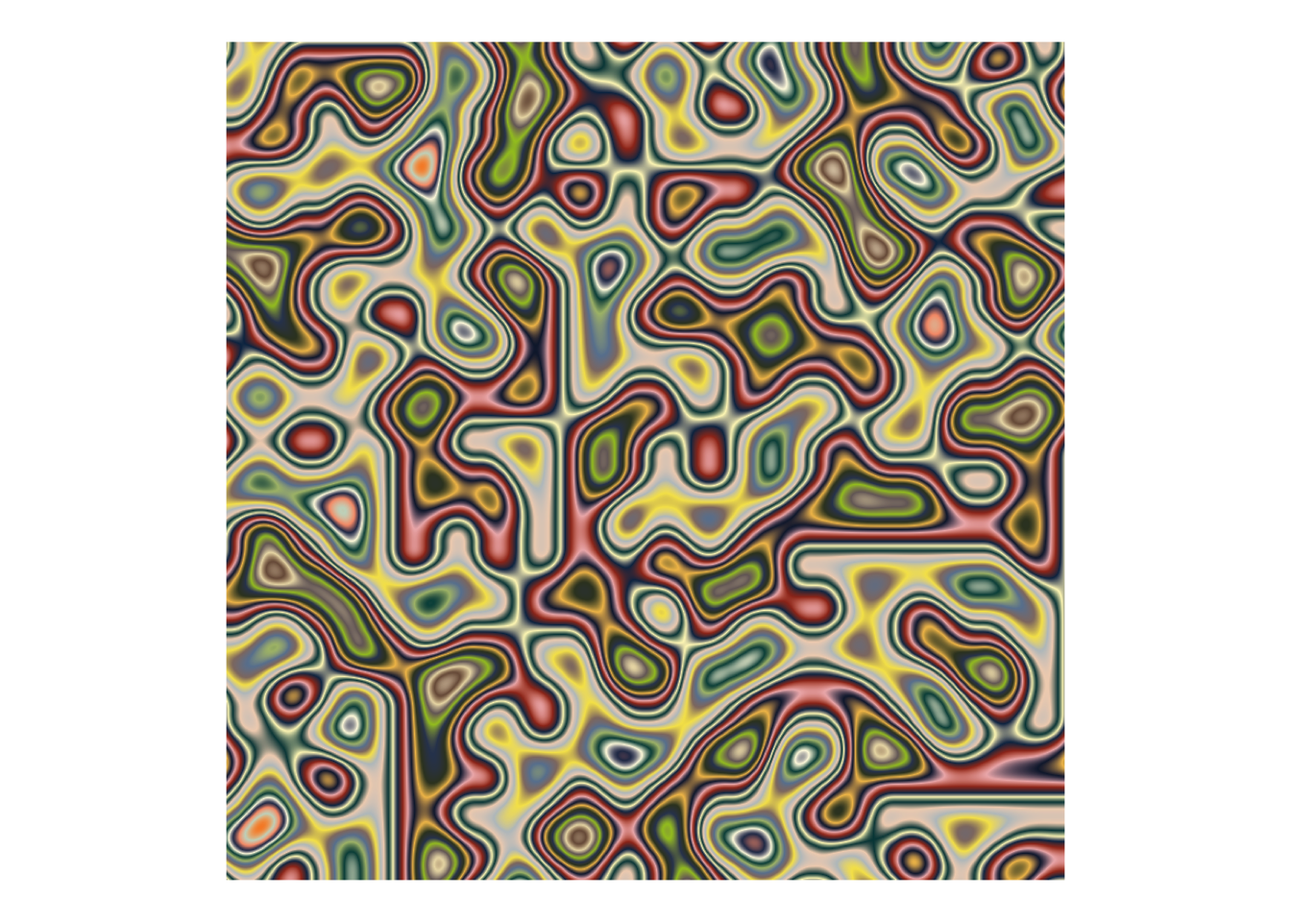
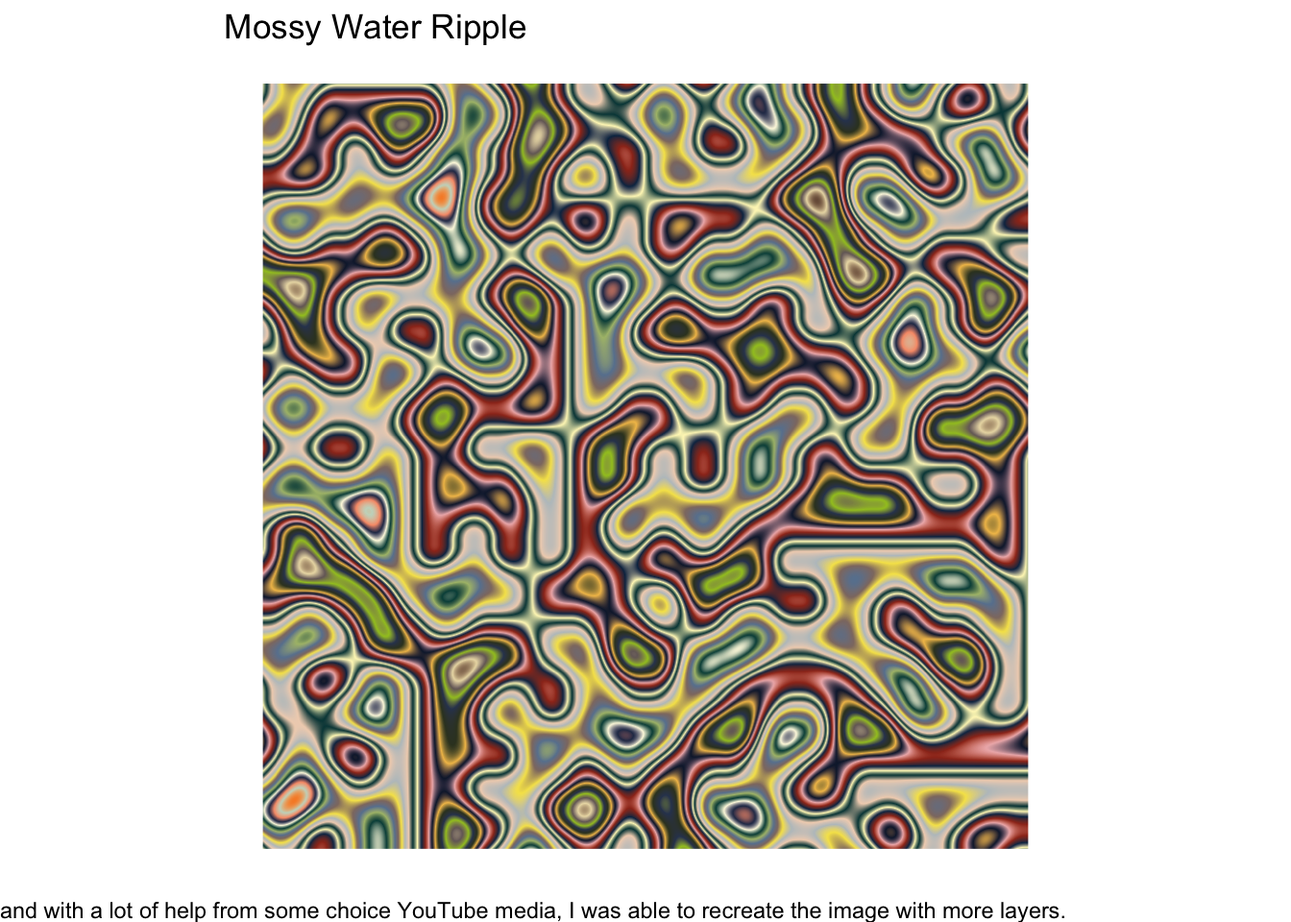
final push

diff --git a/art-from-code.html b/art-from-code.html
@@ -527,48 +527,52 @@ pre > code.sourceCode > span > a:first-child::before { text-decoration: underlin
 </div>
 </div>
 <div class="cell">
-<div class="sourceCode cell-code" id="cb26"><pre class="sourceCode r code-with-copy"><code class="sourceCode r"><span id="cb26-1"><a href="#cb26-1" aria-hidden="true" tabindex="-1"></a>leaf <span class="ot">&lt;-</span> tree <span class="sc">|&gt;</span> <span class="fu">filter</span>(id_leaf <span class="sc">==</span> <span class="cn">TRUE</span>)</span>
-<span id="cb26-2"><a href="#cb26-2" aria-hidden="true" tabindex="-1"></a>trunk <span class="ot">&lt;-</span> <span class="fu">geom_bezier</span>(</span>
-<span id="cb26-3"><a href="#cb26-3" aria-hidden="true" tabindex="-1"></a>  <span class="at">mapping =</span> <span class="fu">aes</span>(coord_x, coord_y, <span class="at">group =</span> id_pathtree, <span class="at">size =</span> seg_wid),</span>
-<span id="cb26-4"><a href="#cb26-4" aria-hidden="true" tabindex="-1"></a>  <span class="at">data =</span> tree, </span>
-<span id="cb26-5"><a href="#cb26-5" aria-hidden="true" tabindex="-1"></a>  <span class="at">lineend =</span> <span class="st">"round"</span>, </span>
-<span id="cb26-6"><a href="#cb26-6" aria-hidden="true" tabindex="-1"></a>  <span class="at">colour =</span> <span class="st">"#555555"</span>,</span>
-<span id="cb26-7"><a href="#cb26-7" aria-hidden="true" tabindex="-1"></a>  <span class="at">show.legend =</span> <span class="cn">FALSE</span></span>
-<span id="cb26-8"><a href="#cb26-8" aria-hidden="true" tabindex="-1"></a>)</span>
-<span id="cb26-9"><a href="#cb26-9" aria-hidden="true" tabindex="-1"></a></span>
-<span id="cb26-10"><a href="#cb26-10" aria-hidden="true" tabindex="-1"></a>leaves <span class="ot">&lt;-</span> <span class="fu">geom_point</span>(</span>
-<span id="cb26-11"><a href="#cb26-11" aria-hidden="true" tabindex="-1"></a>  <span class="at">mapping =</span> <span class="fu">aes</span>(coord_x, coord_y),</span>
-<span id="cb26-12"><a href="#cb26-12" aria-hidden="true" tabindex="-1"></a>  <span class="at">data =</span> leaf, </span>
-<span id="cb26-13"><a href="#cb26-13" aria-hidden="true" tabindex="-1"></a>  <span class="at">size =</span> <span class="fl">1.3</span>, </span>
-<span id="cb26-14"><a href="#cb26-14" aria-hidden="true" tabindex="-1"></a>  <span class="at">stroke =</span> <span class="dv">0</span>, </span>
-<span id="cb26-15"><a href="#cb26-15" aria-hidden="true" tabindex="-1"></a>  <span class="at">colour =</span> <span class="st">"#e38b75"</span></span>
-<span id="cb26-16"><a href="#cb26-16" aria-hidden="true" tabindex="-1"></a>)</span>
-<span id="cb26-17"><a href="#cb26-17" aria-hidden="true" tabindex="-1"></a></span>
-<span id="cb26-18"><a href="#cb26-18" aria-hidden="true" tabindex="-1"></a><span class="co"># function to create a polygon layer with specified x, y coordinates, fill color, and transparency</span></span>
-<span id="cb26-19"><a href="#cb26-19" aria-hidden="true" tabindex="-1"></a>polygon_layer <span class="ot">&lt;-</span> <span class="cf">function</span>(x, y, <span class="at">fill =</span> <span class="st">"white"</span>, <span class="at">alpha =</span> .<span class="dv">5</span>) {</span>
-<span id="cb26-20"><a href="#cb26-20" aria-hidden="true" tabindex="-1"></a>  <span class="fu">geom_polygon</span>(<span class="fu">aes</span>(x, y), <span class="at">fill =</span> fill, <span class="at">alpha =</span> alpha)</span>
-<span id="cb26-21"><a href="#cb26-21" aria-hidden="true" tabindex="-1"></a>}</span>
-<span id="cb26-22"><a href="#cb26-22" aria-hidden="true" tabindex="-1"></a></span>
-<span id="cb26-23"><a href="#cb26-23" aria-hidden="true" tabindex="-1"></a><span class="co"># create a black triangle</span></span>
-<span id="cb26-24"><a href="#cb26-24" aria-hidden="true" tabindex="-1"></a>triangle <span class="ot">&lt;-</span> <span class="fu">polygon_layer</span>(</span>
-<span id="cb26-25"><a href="#cb26-25" aria-hidden="true" tabindex="-1"></a>  <span class="at">x =</span> <span class="fu">c</span>(<span class="sc">-</span><span class="dv">4</span>, <span class="dv">2</span>, <span class="dv">2</span>), </span>
-<span id="cb26-26"><a href="#cb26-26" aria-hidden="true" tabindex="-1"></a>  <span class="at">y =</span> <span class="fu">c</span>(<span class="dv">0</span>, <span class="dv">0</span>, <span class="dv">6</span>), </span>
-<span id="cb26-27"><a href="#cb26-27" aria-hidden="true" tabindex="-1"></a>  <span class="at">fill =</span> <span class="st">"black"</span>,</span>
-<span id="cb26-28"><a href="#cb26-28" aria-hidden="true" tabindex="-1"></a>  <span class="at">alpha =</span> <span class="dv">1</span></span>
-<span id="cb26-29"><a href="#cb26-29" aria-hidden="true" tabindex="-1"></a>)</span>
-<span id="cb26-30"><a href="#cb26-30" aria-hidden="true" tabindex="-1"></a></span>
-<span id="cb26-31"><a href="#cb26-31" aria-hidden="true" tabindex="-1"></a><span class="co"># base ggplot object with void theme and equal coordinates scaling</span></span>
-<span id="cb26-32"><a href="#cb26-32" aria-hidden="true" tabindex="-1"></a>base <span class="ot">&lt;-</span> <span class="fu">ggplot</span>() <span class="sc">+</span> </span>
-<span id="cb26-33"><a href="#cb26-33" aria-hidden="true" tabindex="-1"></a>  <span class="fu">theme_void</span>() <span class="sc">+</span>  <span class="co"># no background, axes, or grid lines</span></span>
-<span id="cb26-34"><a href="#cb26-34" aria-hidden="true" tabindex="-1"></a>  <span class="fu">coord_equal</span>(<span class="at">xlim =</span> <span class="fu">c</span>(<span class="sc">-</span><span class="dv">3</span>, <span class="dv">1</span>), <span class="at">ylim =</span> <span class="fu">c</span>(<span class="dv">1</span>, <span class="dv">5</span>)) <span class="sc">+</span>  <span class="co"># set limits for x and y axes</span></span>
-<span id="cb26-35"><a href="#cb26-35" aria-hidden="true" tabindex="-1"></a>  <span class="fu">scale_x_continuous</span>(<span class="at">expand =</span> <span class="fu">c</span>(<span class="dv">0</span>, <span class="dv">0</span>)) <span class="sc">+</span>  <span class="co"># remove padding around x axis</span></span>
-<span id="cb26-36"><a href="#cb26-36" aria-hidden="true" tabindex="-1"></a>  <span class="fu">scale_y_continuous</span>(<span class="at">expand =</span> <span class="fu">c</span>(<span class="dv">0</span>, <span class="dv">0</span>)) <span class="sc">+</span>  <span class="co"># remove padding around y axis</span></span>
-<span id="cb26-37"><a href="#cb26-37" aria-hidden="true" tabindex="-1"></a>  <span class="fu">scale_size_identity</span>(<span class="at">guide =</span> <span class="fu">guide_none</span>())  <span class="co"># use size as-is, no guide</span></span>
-<span id="cb26-38"><a href="#cb26-38" aria-hidden="true" tabindex="-1"></a></span>
-<span id="cb26-39"><a href="#cb26-39" aria-hidden="true" tabindex="-1"></a><span class="co"># plot the base with the tree and blend it with the triangle using xor blend type</span></span>
-<span id="cb26-40"><a href="#cb26-40" aria-hidden="true" tabindex="-1"></a>base <span class="sc">+</span></span>
-<span id="cb26-41"><a href="#cb26-41" aria-hidden="true" tabindex="-1"></a>  <span class="fu">as_group</span>(trunk, leaves, <span class="at">id =</span> <span class="st">"tree"</span>) <span class="sc">+</span>  <span class="co"># group trunk and leaves as tree</span></span>
-<span id="cb26-42"><a href="#cb26-42" aria-hidden="true" tabindex="-1"></a>  <span class="fu">with_blend</span>(triangle, <span class="st">"tree"</span>, <span class="at">blend_type =</span> <span class="st">"xor"</span>)  <span class="co"># blend triangle with tree using xor</span></span></code><button title="Copy to Clipboard" class="code-copy-button"><i class="bi"></i></button></pre></div>
+<div class="sourceCode cell-code" id="cb26"><pre class="sourceCode r code-with-copy"><code class="sourceCode r"><span id="cb26-1"><a href="#cb26-1" aria-hidden="true" tabindex="-1"></a><span class="co"># filter the tree data to get only the leaves</span></span>
+<span id="cb26-2"><a href="#cb26-2" aria-hidden="true" tabindex="-1"></a>leaf <span class="ot">&lt;-</span> tree <span class="sc">|&gt;</span> <span class="fu">filter</span>(id_leaf <span class="sc">==</span> <span class="cn">TRUE</span>)</span>
+<span id="cb26-3"><a href="#cb26-3" aria-hidden="true" tabindex="-1"></a></span>
+<span id="cb26-4"><a href="#cb26-4" aria-hidden="true" tabindex="-1"></a><span class="co"># create the trunk using geom_bezier</span></span>
+<span id="cb26-5"><a href="#cb26-5" aria-hidden="true" tabindex="-1"></a>trunk <span class="ot">&lt;-</span> <span class="fu">geom_bezier</span>(</span>
+<span id="cb26-6"><a href="#cb26-6" aria-hidden="true" tabindex="-1"></a>  <span class="at">mapping =</span> <span class="fu">aes</span>(coord_x, coord_y, <span class="at">group =</span> id_pathtree, <span class="at">size =</span> seg_wid),  <span class="co"># map coordinates and sizes</span></span>
+<span id="cb26-7"><a href="#cb26-7" aria-hidden="true" tabindex="-1"></a>  <span class="at">data =</span> tree,  <span class="co"># use tree data</span></span>
+<span id="cb26-8"><a href="#cb26-8" aria-hidden="true" tabindex="-1"></a>  <span class="at">lineend =</span> <span class="st">"round"</span>,  <span class="co"># round line ends</span></span>
+<span id="cb26-9"><a href="#cb26-9" aria-hidden="true" tabindex="-1"></a>  <span class="at">colour =</span> <span class="st">"#555555"</span>,  <span class="co"># set color to gray</span></span>
+<span id="cb26-10"><a href="#cb26-10" aria-hidden="true" tabindex="-1"></a>  <span class="at">show.legend =</span> <span class="cn">FALSE</span>  <span class="co"># hide the legend</span></span>
+<span id="cb26-11"><a href="#cb26-11" aria-hidden="true" tabindex="-1"></a>)</span>
+<span id="cb26-12"><a href="#cb26-12" aria-hidden="true" tabindex="-1"></a></span>
+<span id="cb26-13"><a href="#cb26-13" aria-hidden="true" tabindex="-1"></a><span class="co"># create the leaves using geom_point</span></span>
+<span id="cb26-14"><a href="#cb26-14" aria-hidden="true" tabindex="-1"></a>leaves <span class="ot">&lt;-</span> <span class="fu">geom_point</span>(</span>
+<span id="cb26-15"><a href="#cb26-15" aria-hidden="true" tabindex="-1"></a>  <span class="at">mapping =</span> <span class="fu">aes</span>(coord_x, coord_y),  <span class="co"># map coordinates</span></span>
+<span id="cb26-16"><a href="#cb26-16" aria-hidden="true" tabindex="-1"></a>  <span class="at">data =</span> leaf,  <span class="co"># use leaf data</span></span>
+<span id="cb26-17"><a href="#cb26-17" aria-hidden="true" tabindex="-1"></a>  <span class="at">size =</span> <span class="fl">1.3</span>,  <span class="co"># set point size</span></span>
+<span id="cb26-18"><a href="#cb26-18" aria-hidden="true" tabindex="-1"></a>  <span class="at">stroke =</span> <span class="dv">0</span>,  <span class="co"># remove stroke around points</span></span>
+<span id="cb26-19"><a href="#cb26-19" aria-hidden="true" tabindex="-1"></a>  <span class="at">colour =</span> <span class="st">"#e38b75"</span>  <span class="co"># set color to a pinkish hue</span></span>
+<span id="cb26-20"><a href="#cb26-20" aria-hidden="true" tabindex="-1"></a>)</span>
+<span id="cb26-21"><a href="#cb26-21" aria-hidden="true" tabindex="-1"></a></span>
+<span id="cb26-22"><a href="#cb26-22" aria-hidden="true" tabindex="-1"></a><span class="co"># function to create a polygon layer with specified x, y coordinates, fill color, and transparency</span></span>
+<span id="cb26-23"><a href="#cb26-23" aria-hidden="true" tabindex="-1"></a>polygon_layer <span class="ot">&lt;-</span> <span class="cf">function</span>(x, y, <span class="at">fill =</span> <span class="st">"white"</span>, <span class="at">alpha =</span> .<span class="dv">5</span>) {</span>
+<span id="cb26-24"><a href="#cb26-24" aria-hidden="true" tabindex="-1"></a>  <span class="fu">geom_polygon</span>(<span class="fu">aes</span>(x, y), <span class="at">fill =</span> fill, <span class="at">alpha =</span> alpha)</span>
+<span id="cb26-25"><a href="#cb26-25" aria-hidden="true" tabindex="-1"></a>}</span>
+<span id="cb26-26"><a href="#cb26-26" aria-hidden="true" tabindex="-1"></a></span>
+<span id="cb26-27"><a href="#cb26-27" aria-hidden="true" tabindex="-1"></a><span class="co"># create a black triangle</span></span>
+<span id="cb26-28"><a href="#cb26-28" aria-hidden="true" tabindex="-1"></a>triangle <span class="ot">&lt;-</span> <span class="fu">polygon_layer</span>(</span>
+<span id="cb26-29"><a href="#cb26-29" aria-hidden="true" tabindex="-1"></a>  <span class="at">x =</span> <span class="fu">c</span>(<span class="sc">-</span><span class="dv">4</span>, <span class="dv">2</span>, <span class="dv">2</span>), </span>
+<span id="cb26-30"><a href="#cb26-30" aria-hidden="true" tabindex="-1"></a>  <span class="at">y =</span> <span class="fu">c</span>(<span class="dv">0</span>, <span class="dv">0</span>, <span class="dv">6</span>), </span>
+<span id="cb26-31"><a href="#cb26-31" aria-hidden="true" tabindex="-1"></a>  <span class="at">fill =</span> <span class="st">"black"</span>,</span>
+<span id="cb26-32"><a href="#cb26-32" aria-hidden="true" tabindex="-1"></a>  <span class="at">alpha =</span> <span class="dv">1</span></span>
+<span id="cb26-33"><a href="#cb26-33" aria-hidden="true" tabindex="-1"></a>)</span>
+<span id="cb26-34"><a href="#cb26-34" aria-hidden="true" tabindex="-1"></a></span>
+<span id="cb26-35"><a href="#cb26-35" aria-hidden="true" tabindex="-1"></a><span class="co"># base ggplot object with void theme and equal coordinates scaling</span></span>
+<span id="cb26-36"><a href="#cb26-36" aria-hidden="true" tabindex="-1"></a>base <span class="ot">&lt;-</span> <span class="fu">ggplot</span>() <span class="sc">+</span> </span>
+<span id="cb26-37"><a href="#cb26-37" aria-hidden="true" tabindex="-1"></a>  <span class="fu">theme_void</span>() <span class="sc">+</span>  <span class="co"># no background, axes, or grid lines</span></span>
+<span id="cb26-38"><a href="#cb26-38" aria-hidden="true" tabindex="-1"></a>  <span class="fu">coord_equal</span>(<span class="at">xlim =</span> <span class="fu">c</span>(<span class="sc">-</span><span class="dv">3</span>, <span class="dv">1</span>), <span class="at">ylim =</span> <span class="fu">c</span>(<span class="dv">1</span>, <span class="dv">5</span>)) <span class="sc">+</span>  <span class="co"># set limits for x and y axes</span></span>
+<span id="cb26-39"><a href="#cb26-39" aria-hidden="true" tabindex="-1"></a>  <span class="fu">scale_x_continuous</span>(<span class="at">expand =</span> <span class="fu">c</span>(<span class="dv">0</span>, <span class="dv">0</span>)) <span class="sc">+</span>  <span class="co"># remove padding around x axis</span></span>
+<span id="cb26-40"><a href="#cb26-40" aria-hidden="true" tabindex="-1"></a>  <span class="fu">scale_y_continuous</span>(<span class="at">expand =</span> <span class="fu">c</span>(<span class="dv">0</span>, <span class="dv">0</span>)) <span class="sc">+</span>  <span class="co"># remove padding around y axis</span></span>
+<span id="cb26-41"><a href="#cb26-41" aria-hidden="true" tabindex="-1"></a>  <span class="fu">scale_size_identity</span>(<span class="at">guide =</span> <span class="fu">guide_none</span>())  <span class="co"># use size as-is, no guide</span></span>
+<span id="cb26-42"><a href="#cb26-42" aria-hidden="true" tabindex="-1"></a></span>
+<span id="cb26-43"><a href="#cb26-43" aria-hidden="true" tabindex="-1"></a><span class="co"># plot the base with the tree and blend it with the triangle using xor blend type</span></span>
+<span id="cb26-44"><a href="#cb26-44" aria-hidden="true" tabindex="-1"></a>base <span class="sc">+</span></span>
+<span id="cb26-45"><a href="#cb26-45" aria-hidden="true" tabindex="-1"></a>  <span class="fu">as_group</span>(trunk, leaves, <span class="at">id =</span> <span class="st">"tree"</span>) <span class="sc">+</span>  <span class="co"># group trunk and leaves as tree</span></span>
+<span id="cb26-46"><a href="#cb26-46" aria-hidden="true" tabindex="-1"></a>  <span class="fu">with_blend</span>(triangle, <span class="st">"tree"</span>, <span class="at">blend_type =</span> <span class="st">"xor"</span>)  <span class="co"># blend triangle with tree using xor</span></span></code><button title="Copy to Clipboard" class="code-copy-button"><i class="bi"></i></button></pre></div>
 <div class="cell-output-display">
 <p><img src="art-from-code_files/figure-html/unnamed-chunk-21-1.png" class="img-fluid" width="672"></p>
 </div>
@@ -580,8 +584,9 @@ pre > code.sourceCode > span > a:first-child::before { text-decoration: underlin
 <h2 class="anchored" data-anchor-id="put-it-all-together">Put It All Together</h2>
 <section id="piece-i" class="level4">
 <h4 class="anchored" data-anchor-id="piece-i">Piece I</h4>
+<p>I was inspired to make this when messing around with some of the spatial noise code. I found that using the “sample_600_colors()” function we generated in an earlier part worked very well with the noise. Instead of usung only a few colors to distinguish between the regions, I thought I’d try to spice it up by adding more colors. I didnt expect for it to clear up and not look as “fuzzy”, but it ended up making a very interesting and water-like illustration. Then I cleaned up the code a little bit and with a lot of help from some choice YouTube media, I was able to recreate the image with more layers.</p>
 <div class="cell">
-<div class="sourceCode cell-code" id="cb27"><pre class="sourceCode r code-with-copy"><code class="sourceCode r"><span id="cb27-1"><a href="#cb27-1" aria-hidden="true" tabindex="-1"></a><span class="co"># Function to generate a pretty pattern using spatial noise</span></span>
+<div class="sourceCode cell-code" id="cb27"><pre class="sourceCode r code-with-copy"><code class="sourceCode r"><span id="cb27-1"><a href="#cb27-1" aria-hidden="true" tabindex="-1"></a><span class="co"># Function to generate a cool pattern using spatial noise</span></span>
 <span id="cb27-2"><a href="#cb27-2" aria-hidden="true" tabindex="-1"></a>generate_pretty_pattern <span class="ot">&lt;-</span> <span class="cf">function</span>(seed, size, frequency, palette) {</span>
 <span id="cb27-3"><a href="#cb27-3" aria-hidden="true" tabindex="-1"></a>  <span class="co"># Set seed for reproducibility</span></span>
 <span id="cb27-4"><a href="#cb27-4" aria-hidden="true" tabindex="-1"></a>  <span class="fu">set.seed</span>(seed)</span>
@@ -598,16 +603,96 @@ pre > code.sourceCode > span > a:first-child::before { text-decoration: underlin
 <span id="cb27-15"><a href="#cb27-15" aria-hidden="true" tabindex="-1"></a>    <span class="fu">scale_fill_gradientn</span>(<span class="at">colours =</span> palette) <span class="sc">+</span></span>
 <span id="cb27-16"><a href="#cb27-16" aria-hidden="true" tabindex="-1"></a>    <span class="fu">theme_void</span>() <span class="sc">+</span></span>
 <span id="cb27-17"><a href="#cb27-17" aria-hidden="true" tabindex="-1"></a>    <span class="fu">coord_equal</span>() <span class="sc">+</span></span>
-<span id="cb27-18"><a href="#cb27-18" aria-hidden="true" tabindex="-1"></a>    <span class="fu">theme</span>(<span class="at">legend.position =</span> <span class="st">"none"</span>)  <span class="co"># Remove the legend</span></span>
-<span id="cb27-19"><a href="#cb27-19" aria-hidden="true" tabindex="-1"></a>  </span>
-<span id="cb27-20"><a href="#cb27-20" aria-hidden="true" tabindex="-1"></a>  <span class="co"># Display the plot</span></span>
-<span id="cb27-21"><a href="#cb27-21" aria-hidden="true" tabindex="-1"></a>  <span class="fu">print</span>(plot)</span>
-<span id="cb27-22"><a href="#cb27-22" aria-hidden="true" tabindex="-1"></a>}</span>
-<span id="cb27-23"><a href="#cb27-23" aria-hidden="true" tabindex="-1"></a></span>
-<span id="cb27-24"><a href="#cb27-24" aria-hidden="true" tabindex="-1"></a><span class="co"># Example usage</span></span>
-<span id="cb27-25"><a href="#cb27-25" aria-hidden="true" tabindex="-1"></a><span class="fu">generate_pretty_pattern</span>(<span class="at">seed =</span> <span class="dv">123</span>, <span class="at">size =</span> <span class="dv">800</span>, <span class="at">frequency =</span> <span class="dv">10</span>, <span class="at">palette =</span> <span class="fu">sample_600_colours</span>(<span class="dv">26</span>))</span></code><button title="Copy to Clipboard" class="code-copy-button"><i class="bi"></i></button></pre></div>
+<span id="cb27-18"><a href="#cb27-18" aria-hidden="true" tabindex="-1"></a>    <span class="fu">ggtitle</span>(<span class="st">"Mossy Water Ripple"</span>) <span class="sc">+</span>  <span class="co"># Add the title</span></span>
+<span id="cb27-19"><a href="#cb27-19" aria-hidden="true" tabindex="-1"></a>    <span class="fu">labs</span>(<span class="at">caption =</span> <span class="st">"I was inspired to make this when messing around with some of the spatial noise code. I found that using the sample_600_colors() function we generated in an earlier part worked very well with the noise. Instead of usung only a few colors to distinguish between the regions, I thought I'd try to spice it up by adding more colors. I didnt expect for it to clear up and not look as fuzzy, but it ended up making a very interesting and water-like illustration. Then I cleaned up the code a little bit and with a lot of help from some choice YouTube media, I was able to recreate the image with more layers."</span>) <span class="sc">+</span>  <span class="co"># Add the caption</span></span>
+<span id="cb27-20"><a href="#cb27-20" aria-hidden="true" tabindex="-1"></a></span>
+<span id="cb27-21"><a href="#cb27-21" aria-hidden="true" tabindex="-1"></a>    <span class="fu">theme</span>(<span class="at">legend.position =</span> <span class="st">"none"</span>)  <span class="co"># Remove the legend</span></span>
+<span id="cb27-22"><a href="#cb27-22" aria-hidden="true" tabindex="-1"></a>  </span>
+<span id="cb27-23"><a href="#cb27-23" aria-hidden="true" tabindex="-1"></a>  <span class="co"># Display the plot</span></span>
+<span id="cb27-24"><a href="#cb27-24" aria-hidden="true" tabindex="-1"></a>  <span class="fu">print</span>(plot)</span>
+<span id="cb27-25"><a href="#cb27-25" aria-hidden="true" tabindex="-1"></a>}</span>
+<span id="cb27-26"><a href="#cb27-26" aria-hidden="true" tabindex="-1"></a></span>
+<span id="cb27-27"><a href="#cb27-27" aria-hidden="true" tabindex="-1"></a><span class="co"># Example usage</span></span>
+<span id="cb27-28"><a href="#cb27-28" aria-hidden="true" tabindex="-1"></a><span class="fu">generate_pretty_pattern</span>(<span class="at">seed =</span> <span class="dv">123</span>, <span class="at">size =</span> <span class="dv">800</span>, <span class="at">frequency =</span> <span class="dv">10</span>, <span class="at">palette =</span> <span class="fu">sample_600_colours</span>(<span class="dv">25</span>))</span></code><button title="Copy to Clipboard" class="code-copy-button"><i class="bi"></i></button></pre></div>
 <div class="cell-output-display">
 <p><img src="art-from-code_files/figure-html/unnamed-chunk-22-1.png" class="img-fluid" width="672"></p>
+</div>
+</div>
+<div class="cell">
+<div class="sourceCode cell-code" id="cb28"><pre class="sourceCode r code-with-copy"><code class="sourceCode r"><span id="cb28-1"><a href="#cb28-1" aria-hidden="true" tabindex="-1"></a><span class="co"># Function to generate a pretty pattern using Worley noise</span></span>
+<span id="cb28-2"><a href="#cb28-2" aria-hidden="true" tabindex="-1"></a>generate_worley_pattern <span class="ot">&lt;-</span> <span class="cf">function</span>(seed, size, palette) {</span>
+<span id="cb28-3"><a href="#cb28-3" aria-hidden="true" tabindex="-1"></a>  <span class="co"># Set seed for reproducibility</span></span>
+<span id="cb28-4"><a href="#cb28-4" aria-hidden="true" tabindex="-1"></a>  <span class="fu">set.seed</span>(seed)</span>
+<span id="cb28-5"><a href="#cb28-5" aria-hidden="true" tabindex="-1"></a>  </span>
+<span id="cb28-6"><a href="#cb28-6" aria-hidden="true" tabindex="-1"></a>  <span class="co"># Create a grid of coordinates</span></span>
+<span id="cb28-7"><a href="#cb28-7" aria-hidden="true" tabindex="-1"></a>  grid <span class="ot">&lt;-</span> <span class="fu">long_grid</span>(<span class="fu">seq</span>(<span class="dv">0</span>, <span class="dv">1</span>, <span class="at">length.out =</span> size), <span class="fu">seq</span>(<span class="dv">0</span>, <span class="dv">1</span>, <span class="at">length.out =</span> size))</span>
+<span id="cb28-8"><a href="#cb28-8" aria-hidden="true" tabindex="-1"></a>  </span>
+<span id="cb28-9"><a href="#cb28-9" aria-hidden="true" tabindex="-1"></a>  <span class="co"># Generate Worley noise</span></span>
+<span id="cb28-10"><a href="#cb28-10" aria-hidden="true" tabindex="-1"></a>  grid <span class="ot">&lt;-</span> grid <span class="sc">%&gt;%</span> <span class="fu">mutate</span>(<span class="at">noise =</span> <span class="fu">gen_worley</span>(x, y, <span class="at">value =</span> <span class="st">"distance"</span>, <span class="at">seed =</span> seed))</span>
+<span id="cb28-11"><a href="#cb28-11" aria-hidden="true" tabindex="-1"></a>  </span>
+<span id="cb28-12"><a href="#cb28-12" aria-hidden="true" tabindex="-1"></a>  <span class="co"># Create a plot with the noise data</span></span>
+<span id="cb28-13"><a href="#cb28-13" aria-hidden="true" tabindex="-1"></a>  plot <span class="ot">&lt;-</span> <span class="fu">ggplot</span>(grid, <span class="fu">aes</span>(<span class="at">x =</span> x, <span class="at">y =</span> y, <span class="at">fill =</span> noise)) <span class="sc">+</span></span>
+<span id="cb28-14"><a href="#cb28-14" aria-hidden="true" tabindex="-1"></a>    <span class="fu">geom_raster</span>(<span class="at">interpolate =</span> <span class="cn">TRUE</span>) <span class="sc">+</span>  <span class="co"># use raster graphics with interpolation</span></span>
+<span id="cb28-15"><a href="#cb28-15" aria-hidden="true" tabindex="-1"></a>    <span class="fu">scale_fill_gradientn</span>(<span class="at">colours =</span> palette) <span class="sc">+</span>  <span class="co"># apply the color palette</span></span>
+<span id="cb28-16"><a href="#cb28-16" aria-hidden="true" tabindex="-1"></a>    <span class="fu">theme_void</span>() <span class="sc">+</span>  <span class="co"># use a theme with no background, axes, or grid lines</span></span>
+<span id="cb28-17"><a href="#cb28-17" aria-hidden="true" tabindex="-1"></a>    <span class="fu">coord_equal</span>() <span class="sc">+</span>  <span class="co"># ensure equal scaling of x and y axes</span></span>
+<span id="cb28-18"><a href="#cb28-18" aria-hidden="true" tabindex="-1"></a>    <span class="fu">theme</span>(<span class="at">legend.position =</span> <span class="st">"none"</span>)  <span class="co"># Remove the legend</span></span>
+<span id="cb28-19"><a href="#cb28-19" aria-hidden="true" tabindex="-1"></a>  </span>
+<span id="cb28-20"><a href="#cb28-20" aria-hidden="true" tabindex="-1"></a>  <span class="co"># Display the plot</span></span>
+<span id="cb28-21"><a href="#cb28-21" aria-hidden="true" tabindex="-1"></a>  <span class="fu">print</span>(plot)</span>
+<span id="cb28-22"><a href="#cb28-22" aria-hidden="true" tabindex="-1"></a>}</span>
+<span id="cb28-23"><a href="#cb28-23" aria-hidden="true" tabindex="-1"></a></span>
+<span id="cb28-24"><a href="#cb28-24" aria-hidden="true" tabindex="-1"></a><span class="co"># Example usage</span></span>
+<span id="cb28-25"><a href="#cb28-25" aria-hidden="true" tabindex="-1"></a><span class="fu">generate_worley_pattern</span>(<span class="at">seed =</span> <span class="dv">123</span>, <span class="at">size =</span> <span class="dv">800</span>, <span class="at">palette =</span> <span class="fu">sample_600_colours</span>(<span class="dv">100</span>))  <span class="co"># Generate and display the pattern</span></span></code><button title="Copy to Clipboard" class="code-copy-button"><i class="bi"></i></button></pre></div>
+<div class="cell-output-display">
+<p><img src="art-from-code_files/figure-html/unnamed-chunk-23-1.png" class="img-fluid" width="672"></p>
+</div>
+</div>
+<div class="cell">
+<div class="sourceCode cell-code" id="cb29"><pre class="sourceCode r code-with-copy"><code class="sourceCode r"><span id="cb29-1"><a href="#cb29-1" aria-hidden="true" tabindex="-1"></a><span class="co"># Function to generate a Julia set</span></span>
+<span id="cb29-2"><a href="#cb29-2" aria-hidden="true" tabindex="-1"></a>generate_julia_set <span class="ot">&lt;-</span> <span class="cf">function</span>(re_c, im_c, size, iter, palette) {</span>
+<span id="cb29-3"><a href="#cb29-3" aria-hidden="true" tabindex="-1"></a>  <span class="co"># Create a grid of complex numbers</span></span>
+<span id="cb29-4"><a href="#cb29-4" aria-hidden="true" tabindex="-1"></a>  x <span class="ot">&lt;-</span> <span class="fu">seq</span>(<span class="sc">-</span><span class="fl">1.5</span>, <span class="fl">1.5</span>, <span class="at">length.out =</span> size)  <span class="co"># x values from -1.5 to 1.5</span></span>
+<span id="cb29-5"><a href="#cb29-5" aria-hidden="true" tabindex="-1"></a>  y <span class="ot">&lt;-</span> <span class="fu">seq</span>(<span class="sc">-</span><span class="fl">1.5</span>, <span class="fl">1.5</span>, <span class="at">length.out =</span> size)  <span class="co"># y values from -1.5 to 1.5</span></span>
+<span id="cb29-6"><a href="#cb29-6" aria-hidden="true" tabindex="-1"></a>  c <span class="ot">&lt;-</span> <span class="fu">complex</span>(<span class="at">real =</span> re_c, <span class="at">imaginary =</span> im_c)  <span class="co"># create complex number c</span></span>
+<span id="cb29-7"><a href="#cb29-7" aria-hidden="true" tabindex="-1"></a>  </span>
+<span id="cb29-8"><a href="#cb29-8" aria-hidden="true" tabindex="-1"></a>  <span class="co"># Initialize the grid</span></span>
+<span id="cb29-9"><a href="#cb29-9" aria-hidden="true" tabindex="-1"></a>  z <span class="ot">&lt;-</span> <span class="fu">outer</span>(x, y <span class="sc">*</span> 1i, <span class="st">"+"</span>)  <span class="co"># grid of complex numbers</span></span>
+<span id="cb29-10"><a href="#cb29-10" aria-hidden="true" tabindex="-1"></a>  k <span class="ot">&lt;-</span> <span class="fu">matrix</span>(<span class="dv">0</span>, <span class="at">nrow =</span> size, <span class="at">ncol =</span> size)  <span class="co"># matrix to count iterations</span></span>
+<span id="cb29-11"><a href="#cb29-11" aria-hidden="true" tabindex="-1"></a>  </span>
+<span id="cb29-12"><a href="#cb29-12" aria-hidden="true" tabindex="-1"></a>  <span class="co"># Julia set iteration</span></span>
+<span id="cb29-13"><a href="#cb29-13" aria-hidden="true" tabindex="-1"></a>  <span class="cf">for</span> (i <span class="cf">in</span> <span class="dv">1</span><span class="sc">:</span>iter) {  <span class="co"># loop through iterations</span></span>
+<span id="cb29-14"><a href="#cb29-14" aria-hidden="true" tabindex="-1"></a>    mask <span class="ot">&lt;-</span> <span class="fu">Mod</span>(z) <span class="sc">&lt;=</span> <span class="dv">2</span>  <span class="co"># mask to find points within the circle of radius 2</span></span>
+<span id="cb29-15"><a href="#cb29-15" aria-hidden="true" tabindex="-1"></a>    z[mask] <span class="ot">&lt;-</span> z[mask]<span class="sc">^</span><span class="dv">2</span> <span class="sc">+</span> c  <span class="co"># apply Julia set formula</span></span>
+<span id="cb29-16"><a href="#cb29-16" aria-hidden="true" tabindex="-1"></a>    k[mask] <span class="ot">&lt;-</span> k[mask] <span class="sc">+</span> <span class="dv">1</span>  <span class="co"># count iterations</span></span>
+<span id="cb29-17"><a href="#cb29-17" aria-hidden="true" tabindex="-1"></a>  }</span>
+<span id="cb29-18"><a href="#cb29-18" aria-hidden="true" tabindex="-1"></a>  </span>
+<span id="cb29-19"><a href="#cb29-19" aria-hidden="true" tabindex="-1"></a>  <span class="co"># Prepare data for plotting</span></span>
+<span id="cb29-20"><a href="#cb29-20" aria-hidden="true" tabindex="-1"></a>  data <span class="ot">&lt;-</span> <span class="fu">expand.grid</span>(<span class="at">x =</span> x, <span class="at">y =</span> y)  <span class="co"># create a data frame</span></span>
+<span id="cb29-21"><a href="#cb29-21" aria-hidden="true" tabindex="-1"></a>  data<span class="sc">$</span>k <span class="ot">&lt;-</span> <span class="fu">as.vector</span>(k)  <span class="co"># add iteration counts to data frame</span></span>
+<span id="cb29-22"><a href="#cb29-22" aria-hidden="true" tabindex="-1"></a>  </span>
+<span id="cb29-23"><a href="#cb29-23" aria-hidden="true" tabindex="-1"></a>  <span class="co"># Create the Julia set plot</span></span>
+<span id="cb29-24"><a href="#cb29-24" aria-hidden="true" tabindex="-1"></a>  plot <span class="ot">&lt;-</span> <span class="fu">ggplot</span>(data, <span class="fu">aes</span>(<span class="at">x =</span> x, <span class="at">y =</span> y, <span class="at">fill =</span> k)) <span class="sc">+</span>  <span class="co"># set up plot</span></span>
+<span id="cb29-25"><a href="#cb29-25" aria-hidden="true" tabindex="-1"></a>    <span class="fu">geom_raster</span>(<span class="at">interpolate =</span> <span class="cn">TRUE</span>) <span class="sc">+</span>  <span class="co"># plot with smooth colors</span></span>
+<span id="cb29-26"><a href="#cb29-26" aria-hidden="true" tabindex="-1"></a>    <span class="fu">scale_fill_gradientn</span>(<span class="at">colours =</span> palette) <span class="sc">+</span>  <span class="co"># use the color palette</span></span>
+<span id="cb29-27"><a href="#cb29-27" aria-hidden="true" tabindex="-1"></a>    <span class="fu">theme_void</span>() <span class="sc">+</span>  <span class="co"># remove background and axes</span></span>
+<span id="cb29-28"><a href="#cb29-28" aria-hidden="true" tabindex="-1"></a>    <span class="fu">coord_equal</span>() <span class="sc">+</span>  <span class="co"># make x and y scales equal</span></span>
+<span id="cb29-29"><a href="#cb29-29" aria-hidden="true" tabindex="-1"></a>    <span class="fu">theme</span>(<span class="at">legend.position =</span> <span class="st">"none"</span>)  <span class="co"># remove legend</span></span>
+<span id="cb29-30"><a href="#cb29-30" aria-hidden="true" tabindex="-1"></a>  </span>
+<span id="cb29-31"><a href="#cb29-31" aria-hidden="true" tabindex="-1"></a>  <span class="co"># Display the plot</span></span>
+<span id="cb29-32"><a href="#cb29-32" aria-hidden="true" tabindex="-1"></a>  <span class="fu">print</span>(plot)  <span class="co"># show the plot</span></span>
+<span id="cb29-33"><a href="#cb29-33" aria-hidden="true" tabindex="-1"></a>}</span>
+<span id="cb29-34"><a href="#cb29-34" aria-hidden="true" tabindex="-1"></a></span>
+<span id="cb29-35"><a href="#cb29-35" aria-hidden="true" tabindex="-1"></a><span class="co"># Example usage</span></span>
+<span id="cb29-36"><a href="#cb29-36" aria-hidden="true" tabindex="-1"></a><span class="fu">generate_julia_set</span>(</span>
+<span id="cb29-37"><a href="#cb29-37" aria-hidden="true" tabindex="-1"></a>  <span class="at">re_c =</span> <span class="sc">-</span><span class="fl">0.8</span>,  <span class="co"># real part of c</span></span>
+<span id="cb29-38"><a href="#cb29-38" aria-hidden="true" tabindex="-1"></a>  <span class="at">im_c =</span> <span class="fl">0.156</span>,  <span class="co"># imaginary part of c</span></span>
+<span id="cb29-39"><a href="#cb29-39" aria-hidden="true" tabindex="-1"></a>  <span class="at">size =</span> <span class="dv">800</span>,  <span class="co"># size of the grid</span></span>
+<span id="cb29-40"><a href="#cb29-40" aria-hidden="true" tabindex="-1"></a>  <span class="at">iter =</span> <span class="dv">200</span>,  <span class="co"># number of iterations</span></span>
+<span id="cb29-41"><a href="#cb29-41" aria-hidden="true" tabindex="-1"></a>  <span class="at">palette =</span> <span class="fu">sample_600_colours</span>(<span class="dv">33</span>)  <span class="co"># color palette</span></span>
+<span id="cb29-42"><a href="#cb29-42" aria-hidden="true" tabindex="-1"></a>)</span></code><button title="Copy to Clipboard" class="code-copy-button"><i class="bi"></i></button></pre></div>
+<div class="cell-output-display">
+<p><img src="art-from-code_files/figure-html/unnamed-chunk-24-1.png" class="img-fluid" width="672"></p>
 </div>
 </div>
 </section>
